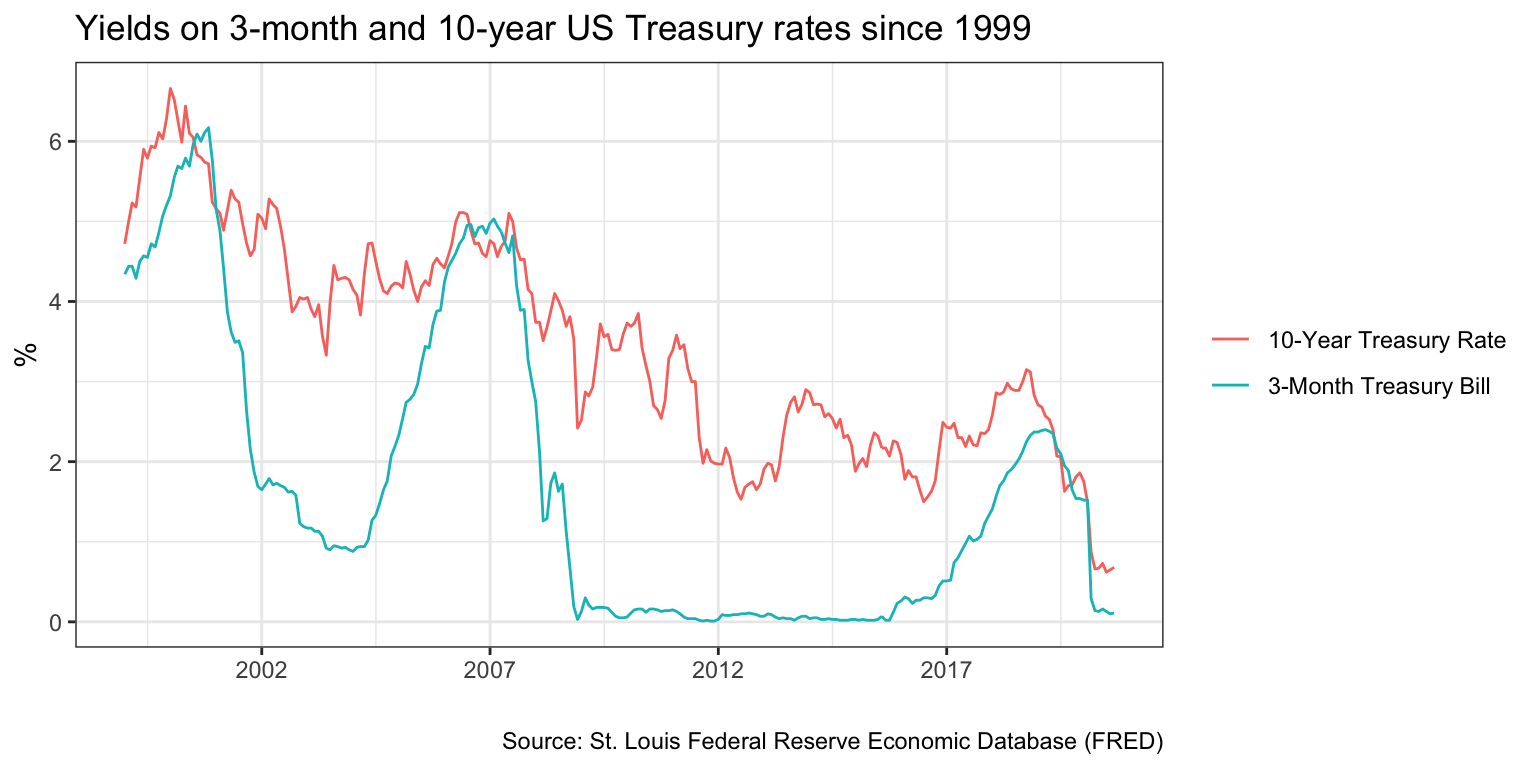
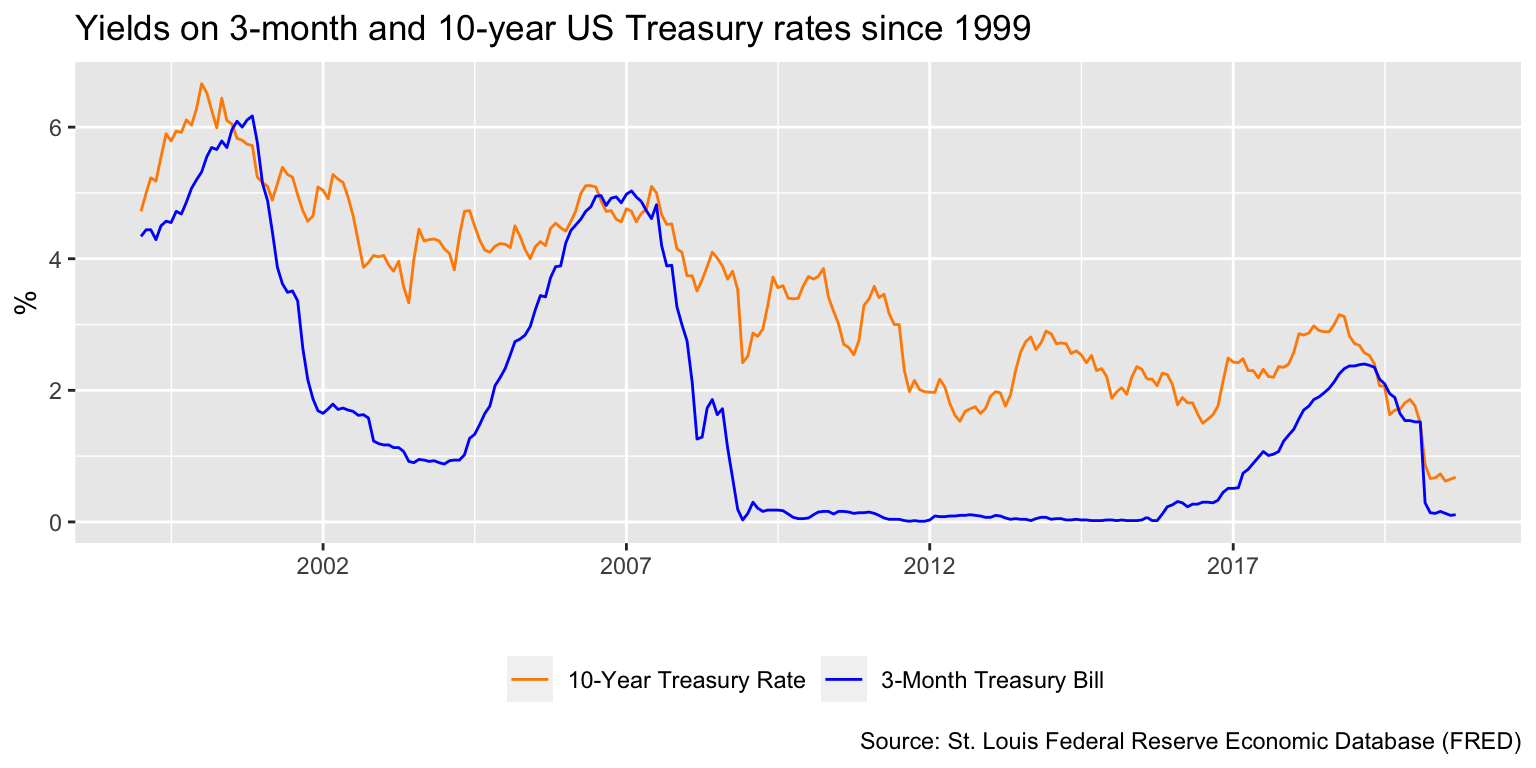
added inversion

diff --git a/content/blogs/inversion.html b/content/blogs/inversion.html
@@ -186,7 +186,6 @@ ggplot(yield_curve_with_years,
 </div>
 <div id="month-and-10-year-yields-since-1999" class="section level3">
 <h3>3-month and 10-year yields since 1999</h3>
-<p><img src="/Users/MDCH/my_website/images/yield_curve3.png" width="100%" style="display: block; margin: auto;" /></p>
 <pre class="r"><code>#Creating new data frame with only 3m Treasury Bill and 10y Treasury Note, and years since 1999
 yield_curve_3m_10m &lt;- yield_curve %&gt;% 
   filter(date&gt;=&quot;1999-01-01&quot;, (maturity == &quot;3m&quot; | maturity == &quot;10y&quot;))
@@ -195,10 +194,10 @@ yield_curve_3m_10m &lt;- yield_curve %&gt;%
 ggplot(yield_curve_3m_10m, aes(x = date, y = price, color = var)) +
 #Choosing plot to be a line graph   
     geom_line() +
-#Choosing black and white theme   
-    theme_bw() +
+    scale_color_manual(values = c(&quot;darkorange&quot;, &quot;blue&quot;)) +
 #Removing legend title and bolding plot title
-    theme(legend.title = element_blank()) +
+    theme(legend.title = element_blank(),
+          legend.position = &quot;bottom&quot;) +
 #Setting plot and axis titles
     labs(y = &#39;%&#39;, title = &#39;Yields on 3-month and 10-year US Treasury rates since 1999&#39;, 
          caption = &quot;Source: St. Louis Federal Reserve Economic Database (FRED)&quot;, x = &quot;&quot;) +
@@ -265,7 +264,9 @@ ggplot(yield_curve_final, aes(x=date, y=difference)) +
 #Fixing x-axis labels and limits
   scale_x_date(date_breaks=&quot;2 years&quot;,labels=date_format(&quot;%Y&quot;), limits = c(as.Date(&quot;1959-01-01&quot;),as.Date(&quot;2023-01-01&quot;))) +
 #Bolding plot title and removing legend
-  theme(plot.title = element_text(face = &quot;bold&quot;), legend.position = &quot;none&quot;) +
+  theme(plot.title = element_text(face = &quot;bold&quot;), 
+        legend.position = &quot;none&quot;,
+        axis.text.x = element_text(angle = 45,hjust=1) )+
 #Creating y-intercept line at 0
   geom_hline(yintercept=0,color=&quot;black&quot;) +
 #Creating rugs at bottom of plot
@@ -276,5 +277,6 @@ ggplot(yield_curve_final, aes(x=date, y=difference)) +
   geom_ribbon(aes(ymin = difference, ymax = pmin(difference, 0)), fill= &quot;steelblue2&quot;, alpha=0.5) +
   geom_ribbon(aes(ymin = 0, ymax = pmin(difference, 0)),fill = &quot;red&quot;, alpha=0.5)</code></pre>
 <p><img src="/blogs/inversion_files/figure-html/yield_curve_challenge_plot-1.png" width="100%" style="display: block; margin: auto;" /></p>
+<p>As we can see, the red zones preceeded different crises. The largest percentage difference was occured in the period 1979-1981. The early 1980s recession is considered to have been the most severe recession since World War Two.</p>
 </div>
 </div>
